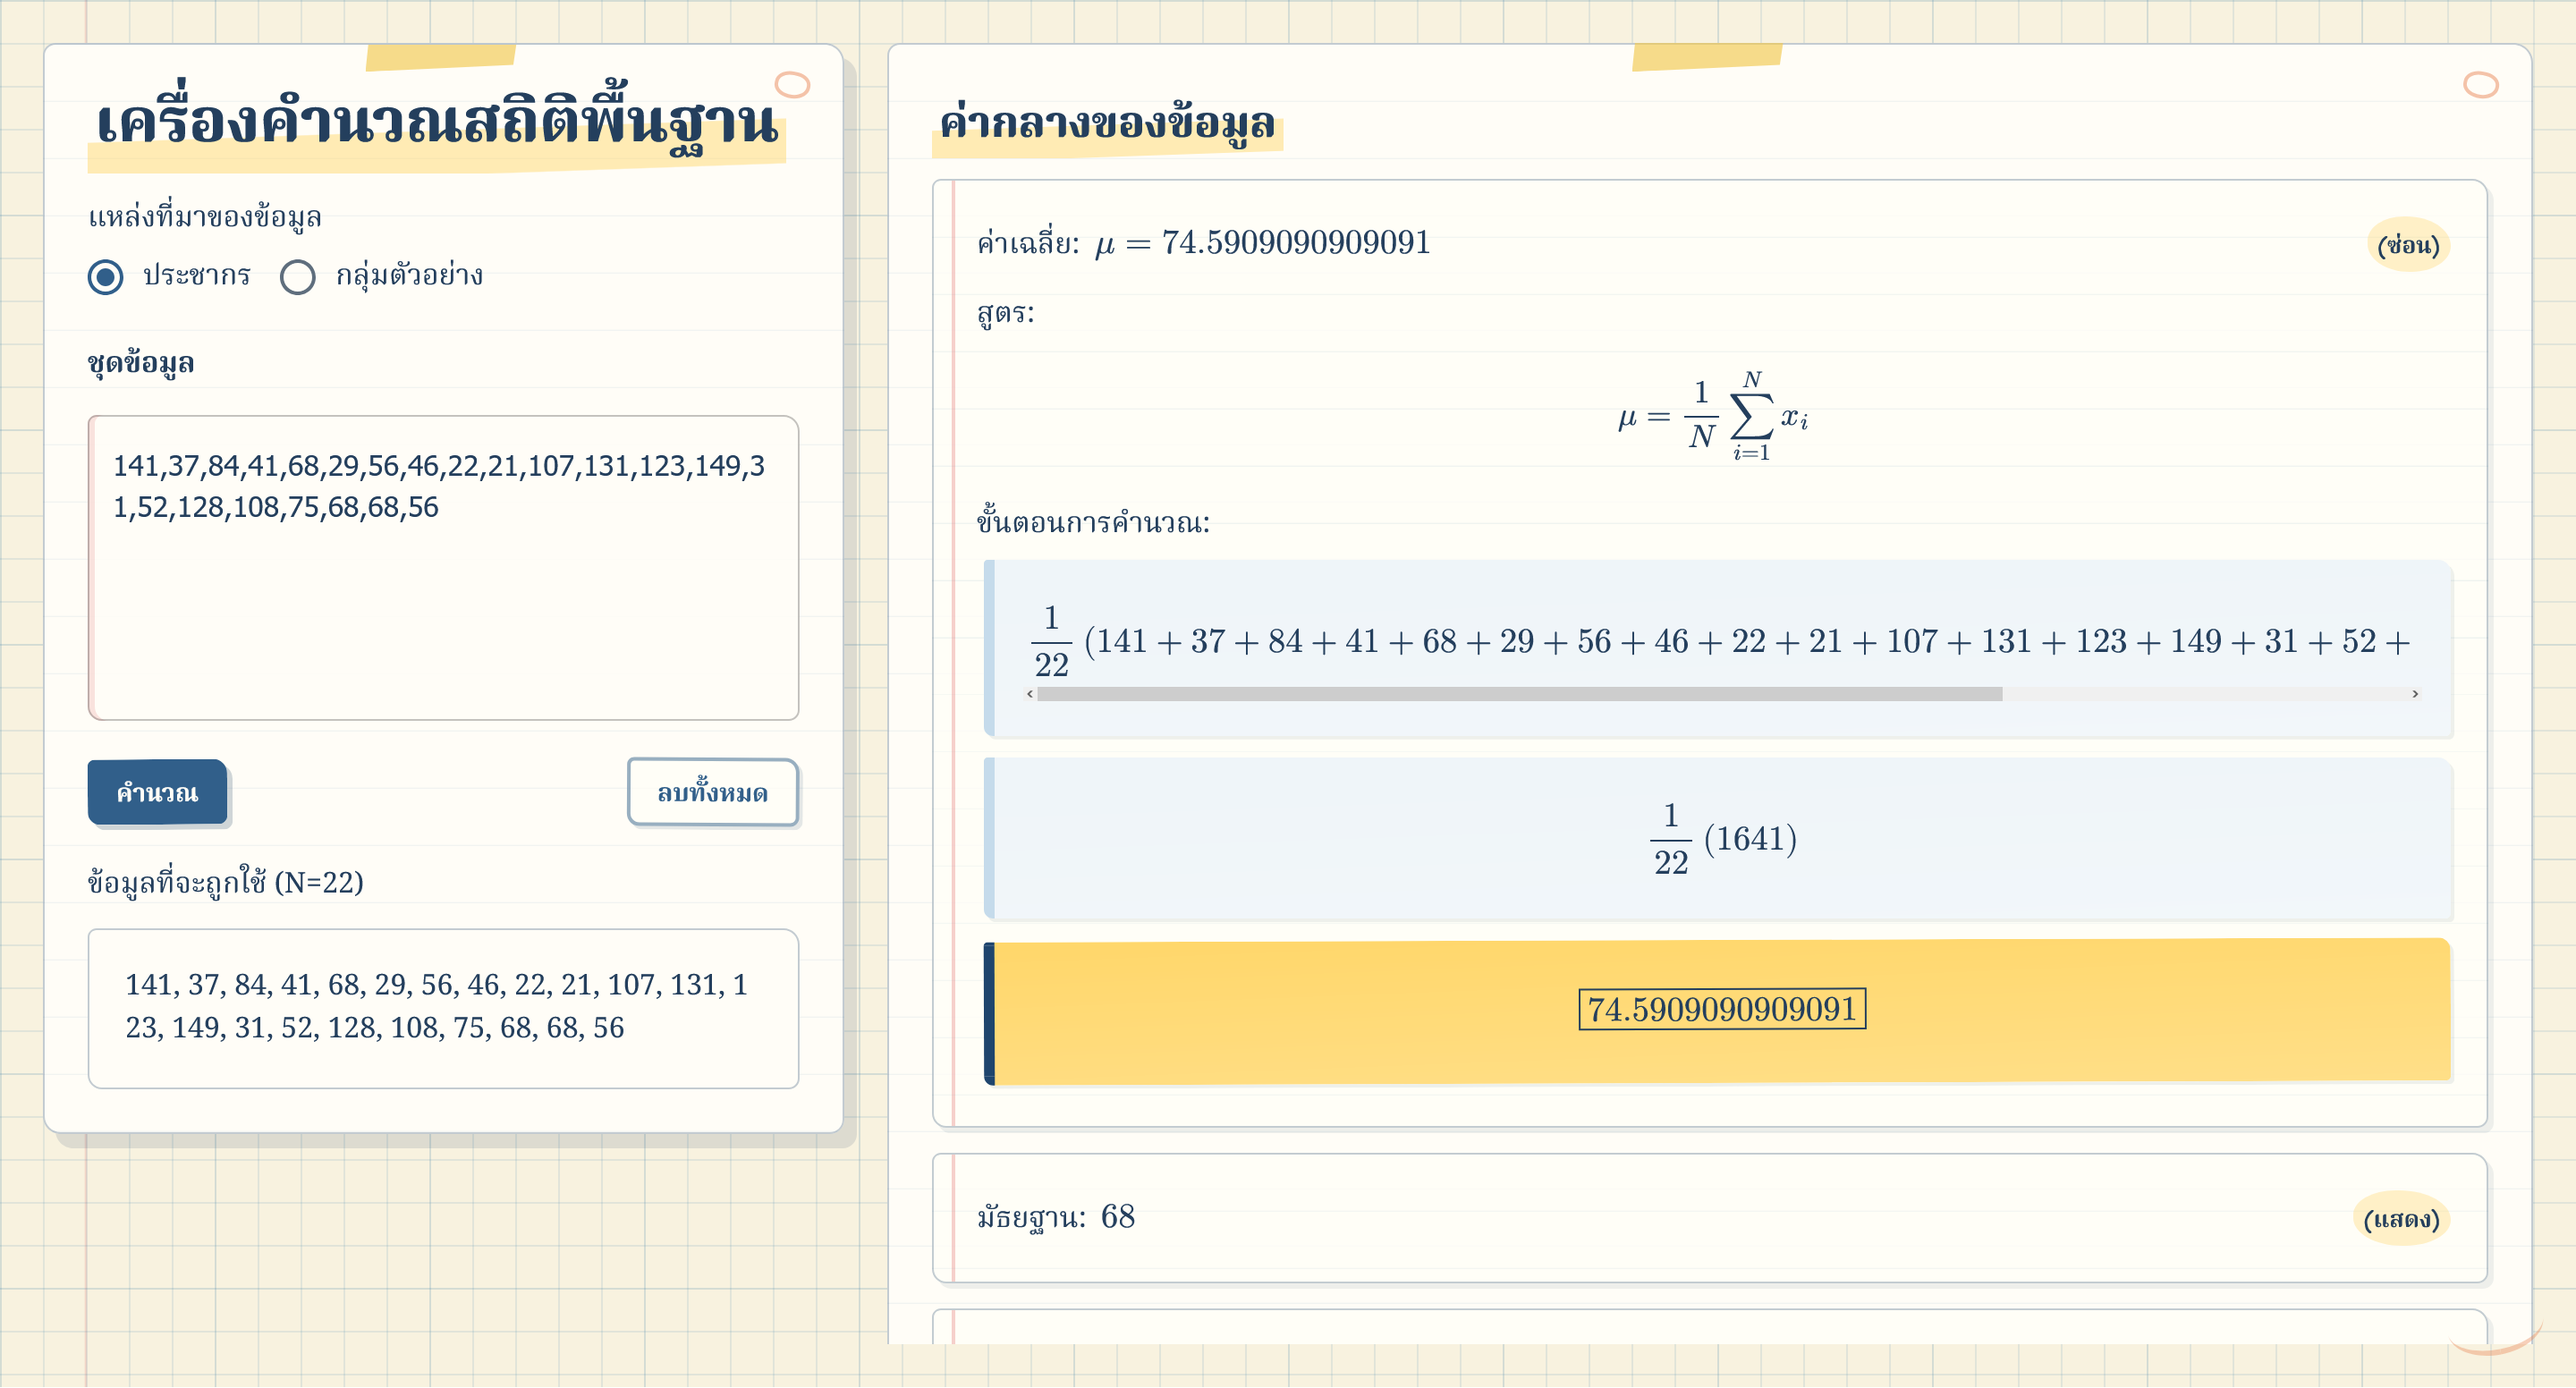
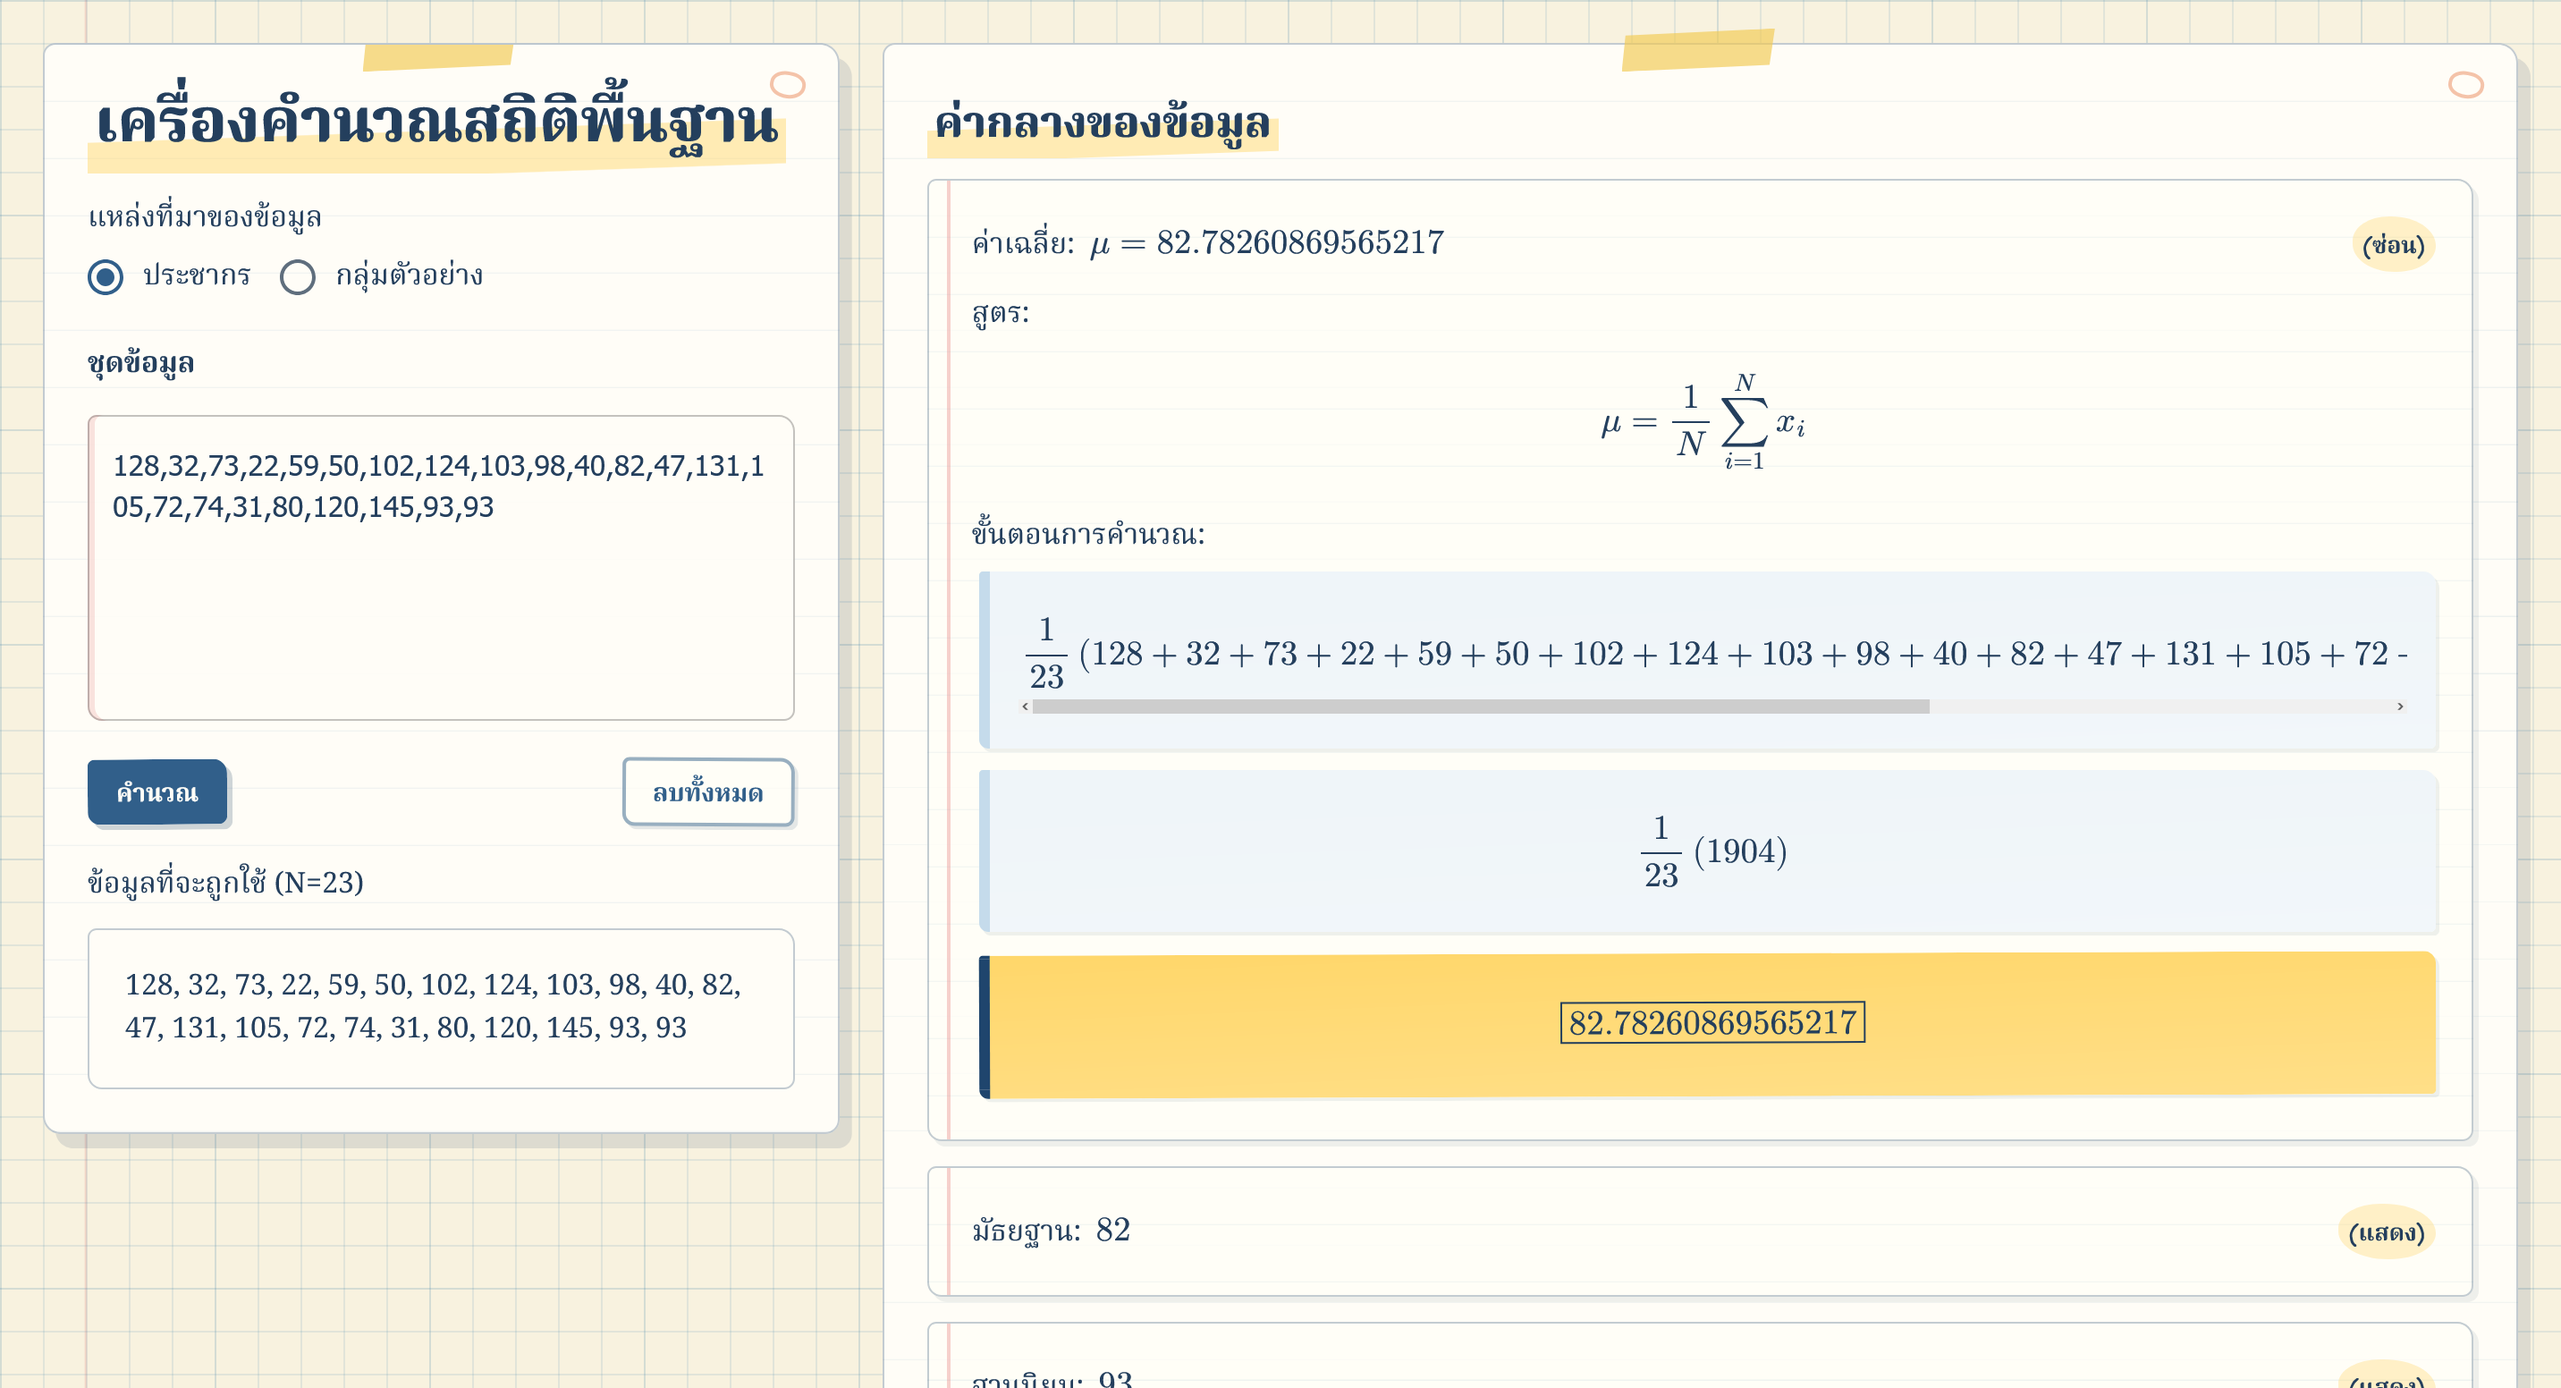
improved SEO tags with OG and added screenshots to readme

diff --git a/index.html b/index.html
@@ -1,22 +1,21 @@
 <!doctype html>
-<html lang="th" prefix="og: https://ogp.me/ns#">
+<html lang="th">
   <head>
     <meta charset="UTF-8" />
 
     <meta name="viewport" content="width=device-width, initial-scale=1.0" />
-    <title>เครื่องคำนวณสถิติพื้นฐาน พร้อมวิธีทำ | ชาติเสือ</title>
+    <title>เครื่องคำนวณสถิติพื้นฐาน</title>
     <meta
       name="description"
       content="คำนวณค่าเฉลี่ย มัธยฐาน ฐานนิยม พิสัย ความแปรปรวน ส่วนเบี่ยงเบนมาตรฐาน ควอร์ไทล์ และเปอร์เซ็นไทล์ พร้อมแสดงวิธีคำนวณและแผนภาพกล่อง"
     />
+    <meta name="robots" content="index, follow, max-image-preview:large" />
+    <meta name="theme-color" content="#315f8a" />
     <link
       rel="canonical"
       href="https://eurydia.github.io/project-basic-statistics-explorer/"
     />
-    <meta
-      property="og:title"
-      content="เครื่องคำนวณสถิติพื้นฐาน พร้อมวิธีทำ | ชาติเสือ"
-    />
+    <meta property="og:title" content="เครื่องคำนวณสถิติพื้นฐาน" />
     <meta
       property="og:description"
       content="คำนวณค่าเฉลี่ย มัธยฐาน ฐานนิยม พิสัย ความแปรปรวน ส่วนเบี่ยงเบนมาตรฐาน ควอร์ไทล์ และเปอร์เซ็นไทล์ พร้อมแสดงวิธีคำนวณและแผนภาพกล่อง"
@@ -28,7 +27,37 @@
     />
     <meta property="og:locale" content="th_TH" />
     <meta property="og:site_name" content="ชาติเสือ" />
+    <meta
+      property="og:image"
+      content="https://eurydia.github.io/project-basic-statistics-explorer/og.png"
+    />
+    <meta
+      property="og:image:secure_url"
+      content="https://eurydia.github.io/project-basic-statistics-explorer/og.png"
+    />
+    <meta property="og:image:type" content="image/png" />
+    <meta property="og:image:width" content="2864" />
+    <meta property="og:image:height" content="1552" />
+    <meta
+      property="og:image:alt"
+      content="ภาพตัวอย่างเครื่องคำนวณสถิติพื้นฐานพร้อมวิธีทำ"
+    />
+    <meta name="twitter:card" content="summary_large_image" />
+    <meta name="twitter:title" content="เครื่องคำนวณสถิติพื้นฐาน" />
+    <meta
+      name="twitter:description"
+      content="คำนวณค่าเฉลี่ย มัธยฐาน ฐานนิยม พิสัย ความแปรปรวน ส่วนเบี่ยงเบนมาตรฐาน ควอร์ไทล์ และเปอร์เซ็นไทล์ พร้อมแสดงวิธีคำนวณและแผนภาพกล่อง"
+    />
+    <meta
+      name="twitter:image"
+      content="https://eurydia.github.io/project-basic-statistics-explorer/og.png"
+    />
+    <meta
+      name="twitter:image:alt"
+      content="ภาพตัวอย่างเครื่องคำนวณสถิติพื้นฐานพร้อมวิธีทำ"
+    />
     <link rel="apple-touch-icon" sizes="180x180" href="/apple-touch-icon.png" />
+    <link rel="icon" href="/favicon.ico" sizes="any" />
     <link rel="icon" type="image/png" sizes="32x32" href="/favicon-32x32.png" />
     <link rel="icon" type="image/png" sizes="16x16" href="/favicon-16x16.png" />
     <link rel="manifest" href="/site.webmanifest" />
@@ -38,7 +67,7 @@
     />
     <style>
       html {
-        height: 100vh;
+        scrollbar-width: thin;
       }
 
       #root {

diff --git a/src/components/layouts/SplitPanelLayout.tsx b/src/components/layouts/SplitPanelLayout.tsx
@@ -1,58 +1,34 @@
 import Grid from "@mui/material/Grid";
-import { type FC, memo, type ReactNode } from "react";
+import { type FC, memo, type PropsWithChildren, type ReactNode } from "react";
 
-export const SplitPanelLayout: FC<{
-  left: ReactNode;
-  right: ReactNode;
-}> = memo(({ left, right }) => {
+export const SplitPanelLayout: FC<
+  PropsWithChildren<{
+    panel: ReactNode;
+  }>
+> = memo((props) => {
   return (
     <Grid
       component="main"
       container
       spacing={{ xs: 2.5, md: 3 }}
-      sx={(t) => ({
+      sx={{
         padding: { xs: 2, md: 3 },
-        position: "relative",
         backgroundColor: "transparent",
-        height: { md: "100vh" },
-        maxHeight: { md: "100vh" },
-        "&::after": {
-          content: '""',
-          position: "fixed",
-          zIndex: 0,
-          right: 18,
-          bottom: 18,
-          width: 54,
-          height: 33,
-          borderBottom: `3px solid ${t.palette.secondary.main}`,
-          borderRadius: "50%",
-          opacity: 0.36,
-          pointerEvents: "none",
-          transform: "rotate(-11deg)",
-        },
-      })}
+        position: "relative",
+      }}
     >
       <Grid
         component="aside"
         size={{ xs: 12, md: 4 }}
-        sx={{
-          height: { md: "100%" },
-          maxHeight: { md: "100vh" },
-        }}
+        sx={(t) => ({
+          position: { xs: "static", md: "sticky" },
+          top: { xs: t.spacing(2.5), md: t.spacing(3) },
+          alignSelf: { md: "flex-start" },
+        })}
       >
-        {left}
+        {props.panel}
       </Grid>
-      <Grid
-        size={{ xs: 12, md: 8 }}
-        sx={{
-          height: { md: "100%" },
-          maxHeight: { md: "100vh" },
-          overflowY: "auto",
-          scrollbarWidth: "none",
-        }}
-      >
-        {right}
-      </Grid>
+      <Grid size={{ xs: 12, md: 8 }}>{props.children}</Grid>
     </Grid>
   );
 });

diff --git a/src/components/data-display/BoxPlot.tsx b/src/components/data-display/BoxPlot.tsx
@@ -133,28 +133,24 @@ export const BoxPlot: FC<{
     <Stack spacing={2}>
       <Typography
         component="figcaption"
-        variant="caption"
-        sx={{
+        sx={(t) => ({
           alignSelf: "flex-start",
-          width: "fit-content",
-          paddingX: 1.5,
-          paddingY: 0.75,
-          backgroundColor: "secondary.light",
+          paddingX: 4,
+          paddingY: 2,
+          backgroundColor: t.alpha(t.palette.secondary.light, 0.4),
           borderLeft: 5,
-          borderColor: "secondary.dark",
+          borderColor: t.palette.secondary.dark,
           borderRadius: "3px 8px 4px 6px",
           boxShadow: "3px 4px 0 rgba(37, 71, 106, 0.14)",
-          fontWeight: 700,
-          transform: "rotate(-0.35deg)",
-        }}
+        })}
       >
-        ลากกราฟในแนวนอนเพื่อดูค่านอกเกณฑ์ กด Ctrl พร้อมหมุนล้อเมาส์หรือบีบนิ้วเพื่อซูม
+        ลากกราฟในแนวนอนเพื่อดูค่านอกเกณฑ์ กด Ctrl
+        พร้อมหมุนล้อเมาส์หรือบีบนิ้วเพื่อซูม
       </Typography>
       <canvas ref={canvasRef} />
       <Button
         color="error"
         onClick={resetView}
-        size="small"
         sx={{ width: "fit-content" }}
         variant="contained"
       >

diff --git a/src/App.tsx b/src/App.tsx
@@ -18,7 +18,7 @@ export const App: FC = () => {
 
   return (
     <SplitPanelLayout
-      left={
+      panel={
         <Paper
           component="section"
           elevation={4}
@@ -42,21 +42,20 @@ export const App: FC = () => {
           </Stack>
         </Paper>
       }
-      right={
-        <Stack spacing={{ xs: 2.5, md: 3 }}>
-          <CentrumCard {...data} />
-          <DispersionCard {...data} />
-          <PositionalCard {...data} />
-          <Paper
-            component="footer"
-            variant="elevation"
-            sx={[notebookSurfaceSx, { padding: { xs: 2.5, md: 3 } }]}
-            elevation={4}
-          >
-            <Attribution />
-          </Paper>
-        </Stack>
-      }
-    />
+    >
+      <Stack spacing={{ xs: 2.5, md: 3 }}>
+        <CentrumCard {...data} />
+        <DispersionCard {...data} />
+        <PositionalCard {...data} />
+        <Paper
+          component="footer"
+          variant="elevation"
+          sx={[notebookSurfaceSx, { padding: { xs: 2.5, md: 3 } }]}
+          elevation={4}
+        >
+          <Attribution />
+        </Paper>
+      </Stack>
+    </SplitPanelLayout>
   );
 };

diff --git a/readme.md b/readme.md
@@ -1,1 +1,31 @@
-A lightweight, client side-first calculator for common statistic properties.
+![](assets/images/thumbnail.png)
+
+> Visualize and see step-by-step calculation of common measures of a data set
+
+# ~Statistics Visualizer
+
+Lightweight, interactive visualizer for common data set measures (center, dispersion, and position) powered by ChartJS comes equipped with step-by-step calculation hints to see how these values are computed.
+
+## Step-by-step Calculation
+
+![](assets/images/step-by-step.png)
+
+## Measures of Center
+
+![](assets/images/center.png)
+
+## Measures of Dispersion
+
+![](assets/images/dispersion.png)
+
+## Measures of Position
+
+![](assets/images/position.png)
+
+## Attibution
+
+> เว็ปไซต์จัดทำให้เป็นสื่อการสอนกลุ่มสาระการรู้เรียนคณิตศาสตร์ โรงเรียนอยุธยาวิทยาลัย
+>
+> พัฒนาและปรับปรุงโดย
+>
+> คุณครูชุติมา ประภัสสรพิทยา และ นายธนกร พุทธรักษา
